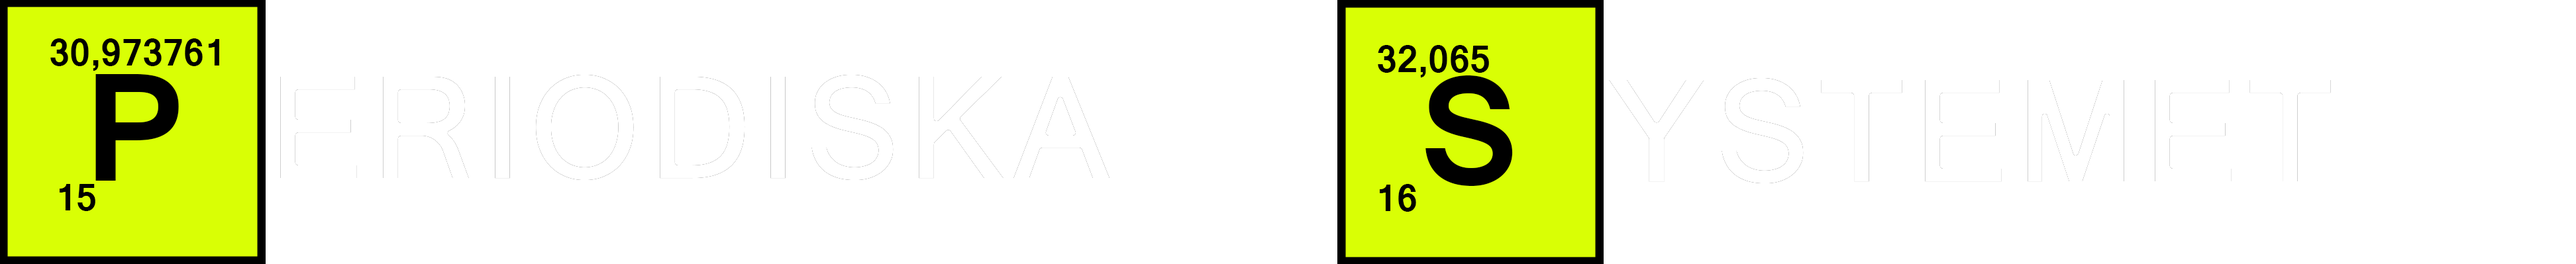
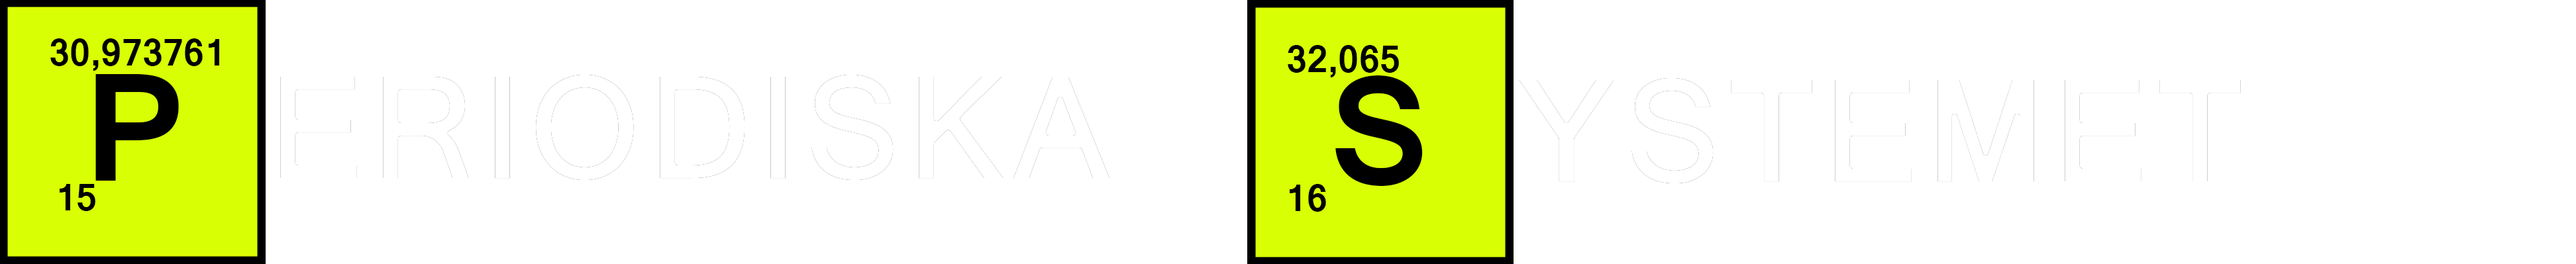
Fortsatta tester
Lägg till poträttläge för mobiler och lägger till en icon för fliken.

Changed region(s): [[0.4667, 0.0, 0.6223, 1.0]]

diff --git a/Scripts.js b/Scripts.js
@@ -123,10 +123,10 @@ $(function() {
 	  
 	  if (key1 % 2 == 1){ //klasserna har satts till två innan. När talet är jämnt så försvinner övriga klasser, när drt är jämnt kommer de tillbaka, detta upprepas sedan för alla 10 klasser
 
-	$('.key2, .key3, .key4, .key5, .key6, .key7, .key8, .key9, .key10,  .Jordart, .Adelgaser, .Ickemetaller, .Overgang, .Post, .Halv, .Halogener, .Lant, .Actnid, .ActnidKey, .Lantanoid, .oidentifierad').css('opacity', '1');	
+	$('.key2, .key3, .key4, .key5, .key6, .key7, .key8, .key9, .key10,  .Jordart, .Adelgaser, .Ickemetaller, .Overgang, .Post, .Halv, .Halogener, .Lant, .Actnid, .ActnidKey, .Lantanoid, .oidentifierad, .Lant2, .Actnid2').css('opacity', '1');	
 	  } else {
 		  
-    $('.key2, .key3, .key4, .key5, .key6, .key7, .key8, .key9, .key10,  .Jordart, .Adelgaser, .Ickemetaller, .Overgang, .Post, .Halv, .Halogener, .Lant, .Actnid, .ActnidKey, .Lantanoid, .oidentifierad').css('opacity', '0.2');
+    $('.key2, .key3, .key4, .key5, .key6, .key7, .key8, .key9, .key10,  .Jordart, .Adelgaser, .Ickemetaller, .Overgang, .Post, .Halv, .Halogener, .Lant, .Actnid, .ActnidKey, .Lantanoid, .oidentifierad, .Lant2, .Actnid2').css('opacity', '0.2');
 	$('.Alkalimetaller, .key1').css('opacity', '1');	
 	  }
   	key1++;
@@ -144,9 +144,9 @@ $(function() {
   
   	if (key2 % 2 == 1){
   
-	$('.key1, .key2, .key3, .key4, .key5, .key6, .key7, .key8, .key9, .key10, .Alkalimetaller, .Jordart, .Adelgaser, .Ickemetaller, .Overgang, .Post, .Halv, .Halogener, .Lant, .Actnid, .ActnidKey, .Lantanoid, .oidentifierad').css('opacity', '1');
+	$('.key1, .key2, .key3, .key4, .key5, .key6, .key7, .key8, .key9, .key10, .Alkalimetaller, .Jordart, .Adelgaser, .Ickemetaller, .Overgang, .Post, .Halv, .Halogener, .Lant, .Actnid, .ActnidKey, .Lantanoid, .oidentifierad, .Lant2, .Actnid2').css('opacity', '1');
 	} else {
-    $('.key1, .key3, .key4, .key5, .key6, .key7, .key8, .key9, .key10, .Alkalimetaller, .Adelgaser, .Ickemetaller, .Overgang, .Post, .Halv, .Halogener, .Lant, .Actnid, .ActnidKey, .Lantanoid, .oidentifierad').css('opacity', '0.2');
+    $('.key1, .key3, .key4, .key5, .key6, .key7, .key8, .key9, .key10, .Alkalimetaller, .Adelgaser, .Ickemetaller, .Overgang, .Post, .Halv, .Halogener, .Lant, .Actnid, .ActnidKey, .Lantanoid, .oidentifierad, .Lant2, .Actnid2').css('opacity', '0.2');
 	$('.Jordart, .key2').css('opacity', '1');
 		}
 	key1 = 2;
@@ -164,9 +164,9 @@ $(function() {
   
   	if (key3 % 2 == 1){
   
-	$('.key1, .key2, .key3, .key4, .key5, .key6, .key7, .key8, .key9, .key10, .Alkalimetaller, .Jordart, .Adelgaser, .Ickemetaller, .Overgang, .Post, .Halv, .Halogener, .Lant, .Actnid, .ActnidKey, .Lantanoid, .oidentifierad').css('opacity', '1');
+	$('.key1, .key2, .key3, .key4, .key5, .key6, .key7, .key8, .key9, .key10, .Alkalimetaller, .Jordart, .Adelgaser, .Ickemetaller, .Overgang, .Post, .Halv, .Halogener, .Lant, .Actnid, .ActnidKey, .Lantanoid, .oidentifierad, .Lant2, .Actnid2').css('opacity', '1');
 	} else {
-    $('.key1, .key2, .key4, .key5, .key6, .key7, .key8, .key9, .key10, .Alkalimetaller, .Jordart, .Adelgaser, .Ickemetaller, .Post, .Halv, .Halogener, .Lant, .Actnid, .ActnidKey, .Lantanoid, .oidentifierad').css('opacity', '0.2');
+    $('.key1, .key2, .key4, .key5, .key6, .key7, .key8, .key9, .key10, .Alkalimetaller, .Jordart, .Adelgaser, .Ickemetaller, .Post, .Halv, .Halogener, .Lant, .Actnid, .ActnidKey, .Lantanoid, .oidentifierad, .Lant2, .Actnid2').css('opacity', '0.2');
 	$('.Overgang, .key3').css('opacity', '1');
 		}
 	key1 = 2;
@@ -184,9 +184,9 @@ $(function() {
   
   	if (key4 % 2 == 1){
   
-	$('.key1, .key2, .key3, .key4, .key5, .key6, .key7, .key8, .key9, .key10, .Alkalimetaller, .Jordart, .Adelgaser, .Ickemetaller, .Overgang, .Post, .Halv, .Halogener, .Lant, .Actnid, .ActnidKey, .Lantanoid, .oidentifierad').css('opacity', '1');
+	$('.key1, .key2, .key3, .key4, .key5, .key6, .key7, .key8, .key9, .key10, .Alkalimetaller, .Jordart, .Adelgaser, .Ickemetaller, .Overgang, .Post, .Halv, .Halogener, .Lant, .Actnid, .ActnidKey, .Lantanoid, .oidentifierad, .Lant2, .Actnid2').css('opacity', '1');
 	} else {
-    $('.key1, .key2, .key3, .key5, .key6, .key7, .key8, .key9, .key10, .Alkalimetaller, .Jordart, .Overgang, .Adelgaser, .Ickemetaller, .Halv, .Halogener, .Lant, .Actnid, .ActnidKey, .Lantanoid, .oidentifierad').css('opacity', '0.2');
+    $('.key1, .key2, .key3, .key5, .key6, .key7, .key8, .key9, .key10, .Alkalimetaller, .Jordart, .Overgang, .Adelgaser, .Ickemetaller, .Halv, .Halogener, .Lant, .Actnid, .ActnidKey, .Lantanoid, .oidentifierad, .Lant2, .Actnid2').css('opacity', '0.2');
 	$('.Post, .key4').css('opacity', '1');
 		}
 	key1 = 2;
@@ -204,9 +204,9 @@ $(function() {
   
   	if (key5 % 2 == 1){
   
-	$('.key1, .key2, .key3, .key4, .key5, .key6, .key7, .key8, .key9, .key10, .Alkalimetaller, .Jordart, .Adelgaser, .Ickemetaller, .Overgang, .Post, .Halv, .Halogener, .Lant, .Actnid, .ActnidKey, .Lantanoid, .oidentifierad').css('opacity', '1');
+	$('.key1, .key2, .key3, .key4, .key5, .key6, .key7, .key8, .key9, .key10, .Alkalimetaller, .Jordart, .Adelgaser, .Ickemetaller, .Overgang, .Post, .Halv, .Halogener, .Lant, .Actnid, .ActnidKey, .Lantanoid, .oidentifierad, .Lant2, .Actnid2').css('opacity', '1');
 	} else {
-    $('.key1, .key2, .key3, .key4, .key6, .key7, .key8, .key9, .key10, .Alkalimetaller, .Jordart, .Overgang, .Adelgaser, .Ickemetaller, .Post, .Halogener, .Lant, .Actnid, .ActnidKey, .Lantanoid, .oidentifierad').css('opacity', '0.2');
+    $('.key1, .key2, .key3, .key4, .key6, .key7, .key8, .key9, .key10, .Alkalimetaller, .Jordart, .Overgang, .Adelgaser, .Ickemetaller, .Post, .Halogener, .Lant, .Actnid, .ActnidKey, .Lantanoid, .oidentifierad, .Lant2, .Actnid2').css('opacity', '0.2');
 	$('.Halv, .key5').css('opacity', '1');
 		}
 	key1 = 2;
@@ -224,9 +224,9 @@ $(function() {
   
   	if (key6 % 2 == 1){
   
-	$('.key1, .key2, .key3, .key4, .key5, .key6, .key7, .key8, .key9, .key10, .Alkalimetaller, .Jordart, .Adelgaser, .Ickemetaller, .Overgang, .Post, .Halv, .Halogener, .Lant, .Actnid, .ActnidKey, .Lantanoid, .oidentifierad').css('opacity', '1');
+	$('.key1, .key2, .key3, .key4, .key5, .key6, .key7, .key8, .key9, .key10, .Alkalimetaller, .Jordart, .Adelgaser, .Ickemetaller, .Overgang, .Post, .Halv, .Halogener, .Lant, .Actnid, .ActnidKey, .Lantanoid, .oidentifierad, .Lant2, .Actnid2').css('opacity', '1');
 	} else {
-    $('.key1, .key2, .key3, .key4, .key5, .key7, .key8, .key9, .key10, .Alkalimetaller, .Jordart, .Overgang, .Adelgaser, .Ickemetaller, .Post, .Halv, .Halogener, .Lant, .Actnid, .ActnidKey, .Lantanoid, .oidentifierad').css('opacity', '0.2');
+    $('.key1, .key2, .key3, .key4, .key5, .key7, .key8, .key9, .key10, .Alkalimetaller, .Jordart, .Overgang, .Adelgaser, .Ickemetaller, .Post, .Halv, .Halogener, .Lant, .Actnid, .ActnidKey, .Lantanoid, .oidentifierad, .Lant2, .Actnid2').css('opacity', '0.2');
 	$('.Ickemetaller, .key6').css('opacity', '1');
 		}
 	key1 = 2;
@@ -244,9 +244,9 @@ $(function() {
   
   	if (key7 % 2 == 1){
   
-	$('.key1, .key2, .key3, .key4, .key5, .key6, .key7, .key8, .key9, .key10, .Alkalimetaller, .Jordart, .Adelgaser, .Ickemetaller, .Overgang, .Post, .Halv, .Halogener, .Lant, .Actnid, .ActnidKey, .Lantanoid, .oidentifierad').css('opacity', '1');
+	$('.key1, .key2, .key3, .key4, .key5, .key6, .key7, .key8, .key9, .key10, .Alkalimetaller, .Jordart, .Adelgaser, .Ickemetaller, .Overgang, .Post, .Halv, .Halogener, .Lant, .Actnid, .ActnidKey, .Lantanoid, .oidentifierad, .Lant2, .Actnid2').css('opacity', '1');
 	} else {
-    $('.key1, .key2, .key3, .key4, .key5, .key6, .key8, .key9, .key10, .Alkalimetaller, .Jordart, .Overgang, .Adelgaser, .Ickemetaller, .Post, .Halv, .Halogener, .Lant, .Actnid, .ActnidKey, .Lantanoid, .oidentifierad').css('opacity', '0.2');
+    $('.key1, .key2, .key3, .key4, .key5, .key6, .key8, .key9, .key10, .Alkalimetaller, .Jordart, .Overgang, .Adelgaser, .Ickemetaller, .Post, .Halv, .Halogener, .Lant, .Actnid, .ActnidKey, .Lantanoid, .oidentifierad, .Lant2, .Actnid2').css('opacity', '0.2');
 	$('.Halogener, .key7').css('opacity', '1');
 		}
 	key1 = 2;
@@ -264,9 +264,9 @@ $(function() {
   
   	if (key8 % 2 == 1){
   
-	$('.key1, .key2, .key3, .key4, .key5, .key6, .key7, .key8, .key9, .key10, .Alkalimetaller, .Jordart, .Adelgaser, .Ickemetaller, .Overgang, .Post, .Halv, .Halogener, .Lant, .Actnid, .ActnidKey, .Lantanoid, .oidentifierad').css('opacity', '1');
+	$('.key1, .key2, .key3, .key4, .key5, .key6, .key7, .key8, .key9, .key10, .Alkalimetaller, .Jordart, .Adelgaser, .Ickemetaller, .Overgang, .Post, .Halv, .Halogener, .Lant, .Actnid, .ActnidKey, .Lantanoid, .oidentifierad, .Lant2, .Actnid2').css('opacity', '1');
 	} else {
-    $('.key1, .key2, .key3, .key4, .key5, .key6, .key7, .key9, .key10, .Alkalimetaller, .Jordart, .Overgang, .Ickemetaller, .Post, .Halv, .Halogener, .Lant, .Actnid, .ActnidKey, .Lantanoid, .oidentifierad').css('opacity', '0.2');
+    $('.key1, .key2, .key3, .key4, .key5, .key6, .key7, .key9, .key10, .Alkalimetaller, .Jordart, .Overgang, .Ickemetaller, .Post, .Halv, .Halogener, .Lant, .Actnid, .ActnidKey, .Lantanoid, .oidentifierad, .Lant2, .Actnid2').css('opacity', '0.2');
 	$('.Adelgaser, .key8').css('opacity', '1');
 		}
 	key1 = 2;
@@ -284,9 +284,9 @@ $(function() {
   
   	if (key9 % 2 == 1){
   
-	$('.key1, .key2, .key3, .key4, .key5, .key6, .key7, .key8, .key9, .key10, .Alkalimetaller, .Jordart, .Adelgaser, .Ickemetaller, .Overgang, .Post, .Halv, .Halogener, .Lant, .Actnid, .ActnidKey, .Lantanoid, .oidentifierad').css('opacity', '1');
+	$('.key1, .key2, .key3, .key4, .key5, .key6, .key7, .key8, .key9, .key10, .Alkalimetaller, .Jordart, .Adelgaser, .Ickemetaller, .Overgang, .Post, .Halv, .Halogener, .Lant, .Actnid, .ActnidKey, .Lantanoid, .oidentifierad, .Lant2, .Actnid2').css('opacity', '1');
 	} else {
-    $('.key1, .key2, .key3, .key4, .key5, .key6, .key7, .key8, .key10, .Alkalimetaller, .Jordart, .Adelgaser, .Overgang, .Ickemetaller, .Post, .Halv, .Halogener, .Lant, .Actnid, .ActnidKey, .Lantanoid, .oidentifierad').css('opacity', '0.2');
+    $('.key1, .key2, .key3, .key4, .key5, .key6, .key7, .key8, .key10, .Alkalimetaller, .Jordart, .Adelgaser, .Overgang, .Ickemetaller, .Post, .Halv, .Halogener, .Lant, .Actnid, .ActnidKey, .Lantanoid, .oidentifierad, .Lant2, .Actnid2').css('opacity', '0.2');
 	$('.Lant, .key9').css('opacity', '1');
 		}
 	key1 = 2;
@@ -304,9 +304,9 @@ $(function() {
   
   	if (key10 % 2 == 1){
   
-	$('.key1, .key2, .key3, .key4, .key5, .key6, .key7, .key8, .key9, .key10, .Alkalimetaller, .Jordart, .Adelgaser, .Ickemetaller, .Overgang, .Post, .Halv, .Halogener, .Lant, .Actnid, .ActnidKey, .Lantanoid, .oidentifierad').css('opacity', '1');
+	$('.key1, .key2, .key3, .key4, .key5, .key6, .key7, .key8, .key9, .key10, .Alkalimetaller, .Jordart, .Adelgaser, .Ickemetaller, .Overgang, .Post, .Halv, .Halogener, .Lant, .Actnid, .ActnidKey, .Lantanoid, .oidentifierad, .Lant2, .Actnid2').css('opacity', '1');
 	} else {
-    $('.key1, .key2, .key3, .key4, .key5, .key6, .key7, .key8, .key9, .Alkalimetaller, .Jordart, .Adelgaser, .Overgang, .Ickemetaller, .Post, .Halv, .Halogener, .Lant, .Actnid, .ActnidKey, .Lantanoid, .oidentifierad').css('opacity', '0.2');
+    $('.key1, .key2, .key3, .key4, .key5, .key6, .key7, .key8, .key9, .Alkalimetaller, .Jordart, .Adelgaser, .Overgang, .Ickemetaller, .Post, .Halv, .Halogener, .Lant, .Actnid, .ActnidKey, .Lantanoid, .oidentifierad, .Lant2, .Actnid2').css('opacity', '0.2');
 	$('.Actnid, .key10').css('opacity', '1');
 		}
 	key1 = 2;
@@ -324,7 +324,7 @@ $(function() {
   
   	{
   
-	$('.key1, .key2, .key3, .key4, .key5, .key6, .key7, .key8, .key9, .key10, .Alkalimetaller, .Jordart, .Adelgaser, .Ickemetaller, .Overgang, .Post, .Halv, .Halogener, .Lant, .Actnid, .ActnidKey, .Lantanoid, .oidentifierad').css('opacity', '1');
+	$('.key1, .key2, .key3, .key4, .key5, .key6, .key7, .key8, .key9, .key10, .Alkalimetaller, .Jordart, .Adelgaser, .Ickemetaller, .Overgang, .Post, .Halv, .Halogener, .Lant, .Actnid, .ActnidKey, .Lantanoid, .oidentifierad, .Lant2, .Actnid2').css('opacity', '1');
 	} 
 	key1 = 2;
 	key2 = 2;

diff --git a/detnyaperiodiskasystemet3.css b/detnyaperiodiskasystemet3.css
@@ -409,3 +409,24 @@ header #key #keycolor div div{
 	padding-right: 250px;
 }	
 }
+@media screen and (orientation:portrait) {
+header section figure{
+	background-color:black;
+	
+	display: block;
+  	
+}
+header section figure img{
+	/*max-width: 25%;*/
+
+	width: 240px;
+
+}
+header section nav ul li a {
+	height:24px;
+	width:20.6px;	
+}
+	
+	
+	
+}

diff --git a/index.html b/index.html
@@ -5,7 +5,7 @@
 <title>Huvudsida</title>
 
 <link href="detnyaperiodiskasystemet3.css" rel="stylesheet" type="text/css">
-
+<link rel="icon" href="FosforIcon.png">
 
 <script type="text/javascript">
 
